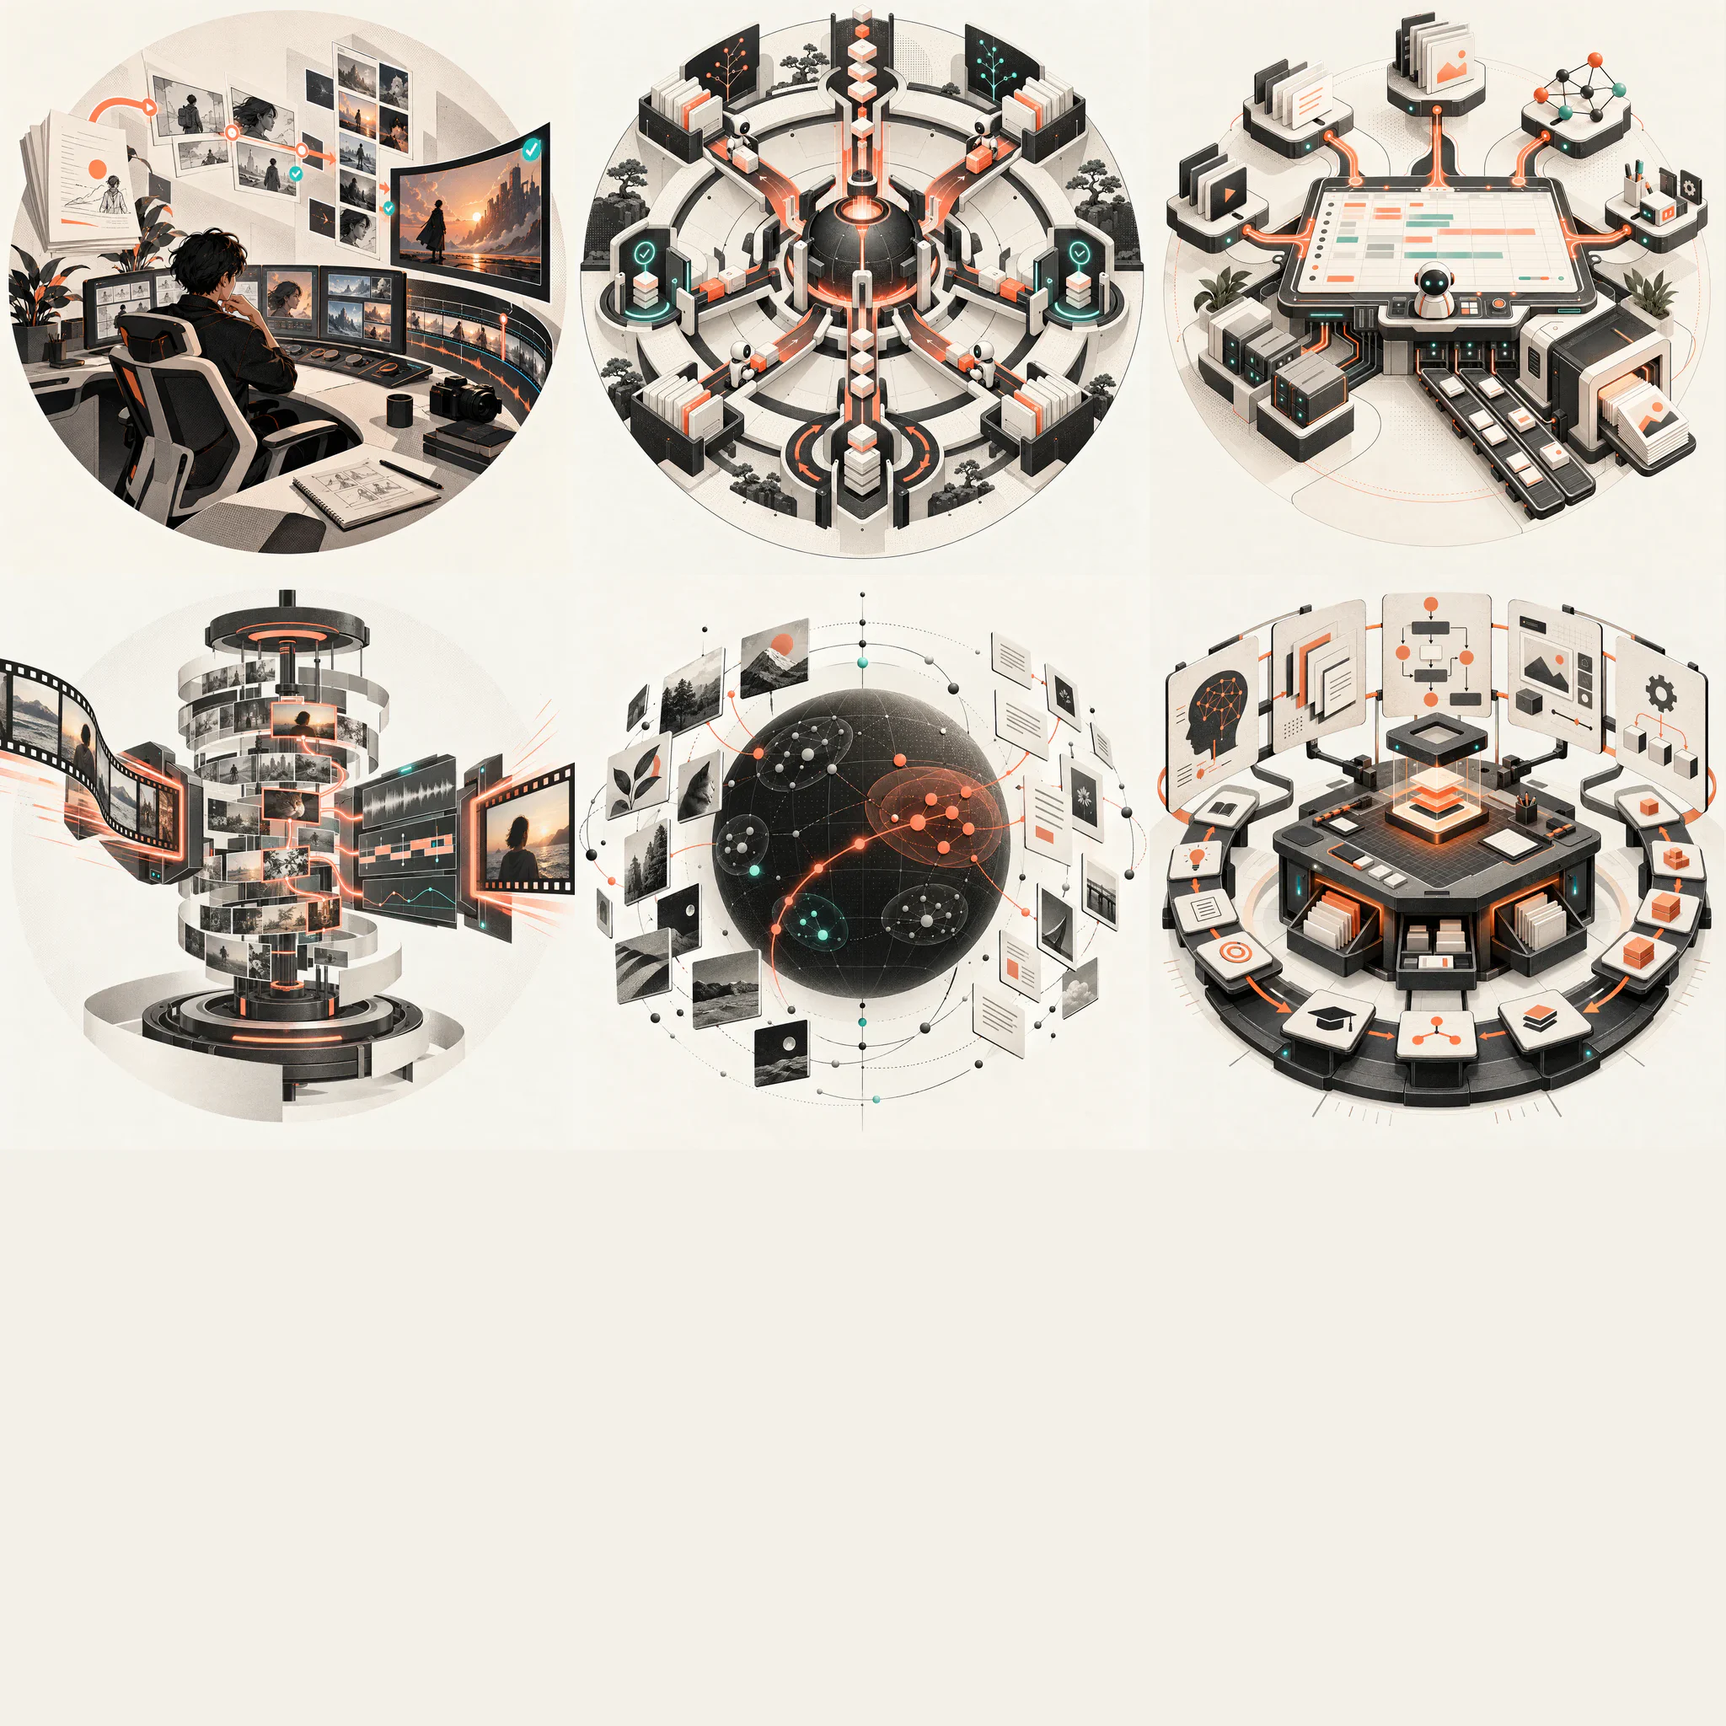
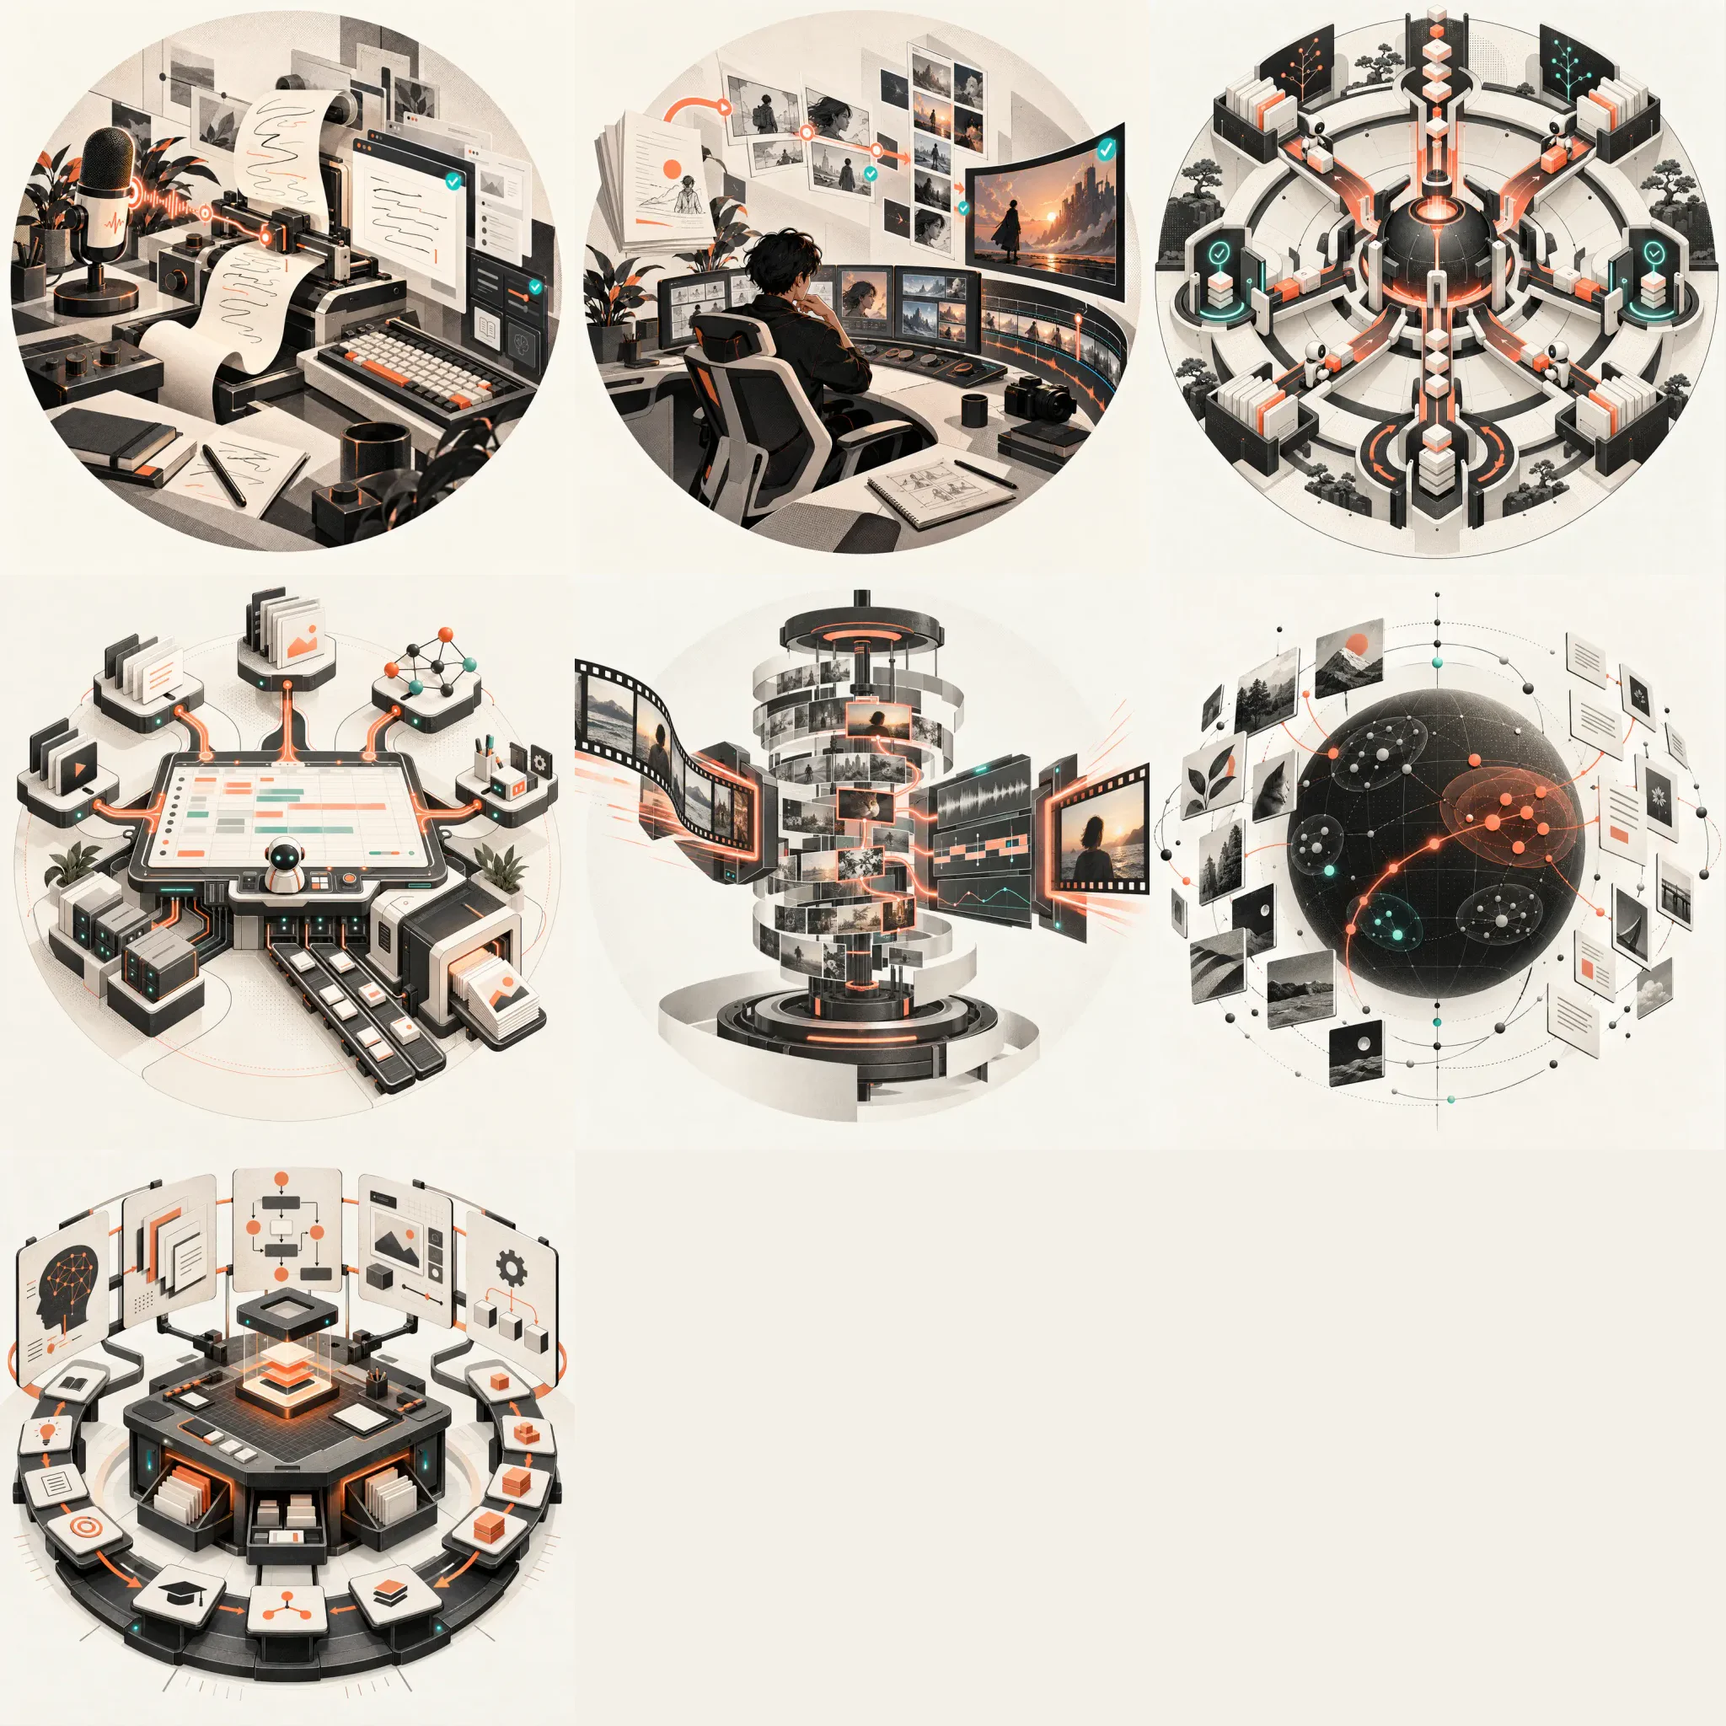
feat: feature Sayweave as the first portfolio project

diff --git a/src/components/SectionProjects.tsx b/src/components/SectionProjects.tsx
@@ -2,14 +2,17 @@ import { useCallback, useEffect, useMemo, useRef, useState } from 'react';
 import { ArrowUpRight, ChevronLeft, ChevronRight, CircleDashed } from 'lucide-react';
 
 import InfiniteProjectMenu, { type InfiniteMenuItem } from './projects/InfiniteProjectMenu';
-import { projectAssets, useProjectAssetsStarted } from './projects/projectAssets';
+import { projectAssets, prepareProjectExperience, useProjectAssetsStarted } from './projects/projectAssets';
 import { particleSeeds } from './projects/particleField';
+import projectManifest from '../assets/projects/project-manifest.json';
 
 const staticParticles = particleSeeds(60);
 
 const {
+  firstProjectPreview,
   atlas: atlasUrl,
   covers: {
+    sayweave: sayweaveCover,
     aigcCourse: courseCover,
     eclHarness: eclCover,
     moonai: moonaiCover,
@@ -66,7 +69,20 @@ export default function SectionProjects() {
   const reducedMotion = useMediaQuery('(prefers-reduced-motion: reduce)');
 
   const projects = useMemo<ProjectItem[]>(
-    () => [
+    () => ([
+      {
+        id: 'sayweave',
+        title: 'Sayweave 随言',
+        titleLines: ['Sayweave', '随言'],
+        position: 'Windows 实时语音输入与口语整理工具',
+        description: '把口述实时写入当前应用，衔接语音与键盘编辑，结合口语整理、专有词典和表达偏好，让说出的想法成为清晰、自然的文字。',
+        tags: ['Tauri 2', 'React + TS', 'Rust', 'ASR', 'SQLite'],
+        image: sayweaveCover,
+        coverAlt: '语音波形转化为文字、应用窗口与词典模块组成的概念封面',
+        status: 'live',
+        primaryLink: { label: 'View live project', href: 'https://sayweave.top/', external: true },
+        secondaryLinks: [{ label: 'GitHub', href: 'https://github.com/qinghui316/Sayweave', external: true }],
+      },
       {
         id: 'moonai',
         title: 'MoonAI 短剧 Agent 工作台',
@@ -155,20 +171,25 @@ export default function SectionProjects() {
         status: 'case-study-building',
         secondaryLinks: [],
       },
-    ],
+    ] satisfies ProjectItem[]).sort((a, b) => projectManifest.findIndex(item => item.id === a.id) - projectManifest.findIndex(item => item.id === b.id)),
     [moonaiFilmDemoVideoUrl, moonaiPromoVideoUrl],
   );
 
   useEffect(() => {
-    if (!assetsStarted) return;
     const canvas = document.createElement('canvas');
     const gl = canvas.getContext('webgl2');
     setWebglAvailable(Boolean(gl));
     gl?.getExtension('WEBGL_lose_context')?.loseContext();
-    const observer = new IntersectionObserver(([entry]) => { if (entry.isIntersecting) { setNear(true); observer.disconnect(); } }, { rootMargin: '100% 0px' });
+    const observer = new IntersectionObserver(([entry]) => {
+      if (entry.isIntersecting) {
+        setNear(true);
+        void prepareProjectExperience().catch(() => undefined);
+        observer.disconnect();
+      }
+    }, { rootMargin: '100% 0px' });
     if (stageRef.current) observer.observe(stageRef.current);
     return () => observer.disconnect();
-  }, [assetsStarted]);
+  }, []);
 
   const activeProject = projects[activeIndex];
   const useInteractiveMenu = desktopPointer && !reducedMotion && webglAvailable && assetsStarted && near;
@@ -209,20 +230,22 @@ export default function SectionProjects() {
             key={`${project.id}-${offset}`}
             type="button"
             className={`projects-static-lens is-edge is-edge-${position + 1}`}
+            style={project.id === projectManifest[0].id ? { backgroundImage: `url(${firstProjectPreview})`, backgroundSize: 'cover' } : undefined}
             onClick={() => setActiveIndex(index)}
             aria-label={`选择项目：${project.title}`}
           >
-            <img src={assetsStarted ? project.image : undefined} alt="" />
+            <img src={assetsStarted ? project.image : undefined} alt="" fetchPriority="low" onLoad={event => event.currentTarget.parentElement?.setAttribute('data-cover-ready', 'true')} />
           </button>
         );
       })}
       <button
         type="button"
         className="projects-static-lens is-center"
+        style={activeProject.id === projectManifest[0].id ? { backgroundImage: `url(${firstProjectPreview})`, backgroundSize: 'cover' } : undefined}
         onClick={() => openProject(activeIndex)}
         aria-label={activeProject.primaryLink ? `打开项目：${activeProject.title}` : activeProject.title}
       >
-        <img src={assetsStarted ? activeProject.image : undefined} alt={activeProject.coverAlt} />
+        <img src={assetsStarted ? activeProject.image : undefined} alt={activeProject.coverAlt} fetchPriority="high" />
       </button>
     </div>
   );
@@ -248,7 +271,7 @@ export default function SectionProjects() {
           {useInteractiveMenu ? (
             <>
               {staticStage(menuReady)}
-              <div className={`projects-webgl ${menuReady ? 'is-ready' : ''}`}>
+              <div className={`projects-webgl ${menuReady ? 'is-ready' : ''}`} inert={!menuReady}>
                 <InfiniteProjectMenu
                   items={projects}
                   atlasUrl={atlasUrl}
@@ -274,6 +297,7 @@ export default function SectionProjects() {
                   type="button"
                   role="listitem"
                   className={index === activeIndex ? 'is-active' : ''}
+                  style={project.id === projectManifest[0].id ? { backgroundImage: `url(${firstProjectPreview})`, backgroundSize: 'cover' } : undefined}
                   onClick={() => setActiveIndex(index)}
                   aria-label={`选择项目：${project.title}`}
                   aria-pressed={index === activeIndex}
@@ -350,7 +374,7 @@ export default function SectionProjects() {
             <ChevronLeft aria-hidden="true" />
           </button>
           <span className="project-progress-edge">01</span>
-          <div className="project-progress-track">
+          <div className="project-progress-track" style={{ gridTemplateColumns: `repeat(${projects.length}, 1fr)` }}>
             <i aria-hidden="true" />
             {projects.map((project, index) => (
               <button
@@ -365,7 +389,7 @@ export default function SectionProjects() {
               </button>
             ))}
           </div>
-          <span className="project-progress-edge">06</span>
+          <span className="project-progress-edge">{String(projects.length).padStart(2, '0')}</span>
           <button type="button" onClick={() => moveSelection(1)} aria-label="下一个项目" title="下一个项目">
             <ChevronRight aria-hidden="true" />
           </button>

diff --git a/scripts/project-assets.test.ts b/scripts/project-assets.test.ts
@@ -1,5 +1,5 @@
 import assert from 'node:assert/strict';
-import { stat } from 'node:fs/promises';
+import { stat, readFile } from 'node:fs/promises';
 import path from 'node:path';
 import test from 'node:test';
 
@@ -7,14 +7,8 @@ import sharp from 'sharp';
 
 const root = path.resolve(import.meta.dirname, '..');
 const assetDir = path.join(root, 'src', 'assets', 'projects');
-const covers = [
-  'moonai.webp',
-  'ecl-harness.webp',
-  'yaoxiaohui.webp',
-  'video-fast-clip.webp',
-  'qwen-embedding.webp',
-  'aigc-course.webp',
-];
+const manifest = JSON.parse(await readFile(path.join(assetDir, 'project-manifest.json'), 'utf8')) as { id: string; coverFile: string }[];
+const covers = manifest.map(item => item.coverFile);
 
 test('project covers are square and lightweight', async () => {
   let totalBytes = 0;
@@ -26,7 +20,7 @@ test('project covers are square and lightweight', async () => {
     assert.ok(info.size < 260_000, `${cover} should stay below 260 KB`);
     totalBytes += info.size;
   }
-  assert.ok(totalBytes < 1_200_000, 'fallback covers should stay below 1.2 MB');
+  assert.ok(totalBytes < 1_500_000, 'fallback covers should stay below 1.5 MB');
 });
 
 test('project atlas has the expected dimensions and budget', async () => {
@@ -34,5 +28,27 @@ test('project atlas has the expected dimensions and budget', async () => {
   const [metadata, info] = await Promise.all([sharp(file).metadata(), stat(file)]);
   assert.equal(metadata.width, 2048);
   assert.equal(metadata.height, 2048);
-  assert.ok(info.size < 700_000, 'project atlas should stay below 700 KB');
+  assert.ok(info.size < 800_000, 'project atlas should stay below 800 KB');
+});
+
+test('first-project preview is small enough for Vite inline assets', async () => {
+  const info = await stat(path.join(assetDir, 'first-project-preview.webp'));
+  assert.ok(info.size < 4096, 'preview must not add a standalone request');
+});
+
+test('seven atlas cells match the ordered covers', async () => {
+  assert.equal(manifest.length, 7);
+  assert.equal(manifest[0].id, 'sayweave');
+  assert.equal(new Set(manifest.map(item => item.id)).size, manifest.length);
+  const references = await Promise.all(covers.map(cover => sharp(path.join(assetDir, cover)).resize(32, 32).removeAlpha().raw().toBuffer()));
+  const scores: number[] = [];
+  for (let i = 0; i < manifest.length; i++) {
+    const cell = await sharp(path.join(assetDir, 'project-atlas.webp'))
+      .extract({ left: i % 3 * 682, top: Math.floor(i / 3) * 682, width: 682, height: 682 }).resize(32, 32).removeAlpha().raw().toBuffer();
+    const errors = references.map(ref => cell.reduce((sum, value, j) => sum + Math.abs(value - ref[j]), 0) / cell.length);
+    assert.equal(errors.indexOf(Math.min(...errors)), i, `${manifest[i].id} should occupy cell ${i}`);
+    assert.ok(errors[i] < 12, `${manifest[i].id} should retain its cover colors`);
+    scores.push(errors[i]);
+  }
+  console.log('Atlas cell mean errors:', scores.map(score => score.toFixed(2)).join(', '));
 });

diff --git a/src/components/projects/projectAssets.ts b/src/components/projects/projectAssets.ts
@@ -5,11 +5,16 @@ import atlasUrl from '../../assets/projects/project-atlas.webp';
 import embeddingCover from '../../assets/projects/qwen-embedding.webp';
 import videoCover from '../../assets/projects/video-fast-clip.webp';
 import yaoxiaohuiCover from '../../assets/projects/yaoxiaohui.webp';
+import sayweaveCover from '../../assets/projects/sayweave.webp';
+import projectManifest from '../../assets/projects/project-manifest.json';
+import firstProjectPreview from '../../assets/projects/first-project-preview.webp';
 import { useSyncExternalStore } from 'react';
 
 export const projectAssets = {
+  firstProjectPreview,
   atlas: atlasUrl,
   covers: {
+    sayweave: sayweaveCover,
     moonai: moonaiCover,
     eclHarness: eclCover,
     yaoxiaohui: yaoxiaohuiCover,
@@ -25,10 +30,11 @@ const listeners = new Set<() => void>();
 const subscribe = (listener: () => void) => { listeners.add(listener); return () => { listeners.delete(listener); }; };
 export const useProjectAssetsStarted = () => useSyncExternalStore(subscribe, () => started, () => false);
 
-const decodeImage = (src: string) =>
+const decodeImage = (src: string, priority: 'high' | 'low' = 'low') =>
   new Promise<void>((resolve, reject) => {
     const image = new Image();
     image.decoding = 'async';
+    image.fetchPriority = priority;
     image.onload = () => { void image.decode().then(resolve, reject); };
     image.onerror = () => reject(new Error(`Unable to preload project image: ${src}`));
     image.src = src;
@@ -37,10 +43,15 @@ const decodeImage = (src: string) =>
 export const prepareProjectExperience = () => {
   if (preloadPromise) return preloadPromise;
   started = true; listeners.forEach(listener => listener());
-  preloadPromise = Promise.all([
-    import('./InfiniteProjectMenu'),
-    ...Object.values(projectAssets.covers).map(decodeImage),
-    decodeImage(projectAssets.atlas),
-  ]).then(() => undefined);
+  const menu = import('./InfiniteProjectMenu');
+  const firstKey = projectManifest[0].coverKey as keyof typeof projectAssets.covers;
+  preloadPromise = decodeImage(projectAssets.covers[firstKey], 'high')
+    .catch(() => undefined)
+    .then(() => Promise.all([
+      menu,
+      ...projectManifest.slice(1).map(({ coverKey }) => decodeImage(projectAssets.covers[coverKey as keyof typeof projectAssets.covers])),
+      decodeImage(projectAssets.atlas),
+    ]))
+    .then(() => undefined);
   return preloadPromise;
 };

diff --git a/src/index.css b/src/index.css
@@ -1501,6 +1501,10 @@
   transition: opacity 180ms ease;
 }
 
+.projects-webgl:not(.is-ready),
+.projects-webgl:not(.is-ready) canvas { pointer-events: none; }
+.projects-static-lens.is-edge:not([data-cover-ready='true']) { opacity: 0; pointer-events: none; }
+
 .projects-static-stage.is-hidden { opacity: 0; pointer-events: none; }
 
 .projects-static-lens,
@@ -1613,6 +1617,17 @@
   inset: -48px -44px;
   background: radial-gradient(ellipse at 55% 50%, #10110f 0 52%, rgba(16,17,15,.9) 68%, transparent 86%);
   pointer-events: none;
+}
+
+@media (min-width: 900px) {
+  .project-title-panel::before {
+    content: "";
+    position: absolute;
+    z-index: -1;
+    inset: -48px -44px;
+    background: radial-gradient(ellipse at 38% 50%, #10110f 0 48%, rgba(16,17,15,.9) 65%, transparent 86%);
+    pointer-events: none;
+  }
 }
 
 .project-stage-copy { animation: project-stage-copy-enter 260ms ease-out both; }

diff --git a/scripts/project-orbit.test.ts b/scripts/project-orbit.test.ts
@@ -15,6 +15,16 @@ test('project indices wrap in a stable data order', () => {
   assert.equal(wrapIndex(8, 6), 2);
 });
 
+test('seven projects traverse both wrap boundaries without skipped slots', () => {
+  const forward = Array.from({ length: 9 }, (_, i) => wrapIndex(resolveActiveSlot(i + .1, 0), 7));
+  assert.deepEqual(forward, [0, 1, 2, 3, 4, 5, 6, 0, 1]);
+  assert.equal(wrapIndex(-1, 7), 6);
+  assert.equal(getOrbitTargetForIndex(.1, 6, 7), -1);
+  assert.equal(getOrbitTargetForIndex(6.1, 0, 7), 7);
+  assert.equal(getNormalizedOrbitProgress(6, 7), 1);
+  assert.equal(getNormalizedOrbitProgress(7, 7), 0);
+});
+
 test('explicit selection uses the shortest continuous orbit target', () => {
   assert.equal(getOrbitTargetForIndex(0.2, 5, 6), -1);
   assert.equal(getOrbitTargetForIndex(5.8, 0, 6), 6);

diff --git a/assets-source/projects/SAYWEAVE-PROMPT.md b/assets-source/projects/SAYWEAVE-PROMPT.md
@@ -1,0 +1,9 @@
+# Sayweave cover provenance
+
+Generated with the built-in ImageGen tool. The reference is the existing MoonAI cover, used only for series style, texture and palette.
+
+Requested square 1536px. The tool returned 1254x1254 pixels; the saved design-source PNG was normalized to 1536x1536 before export. Runtime cover is 1024x1024. No readable product text is included in the artwork.
+
+## Prompt
+
+Generate a brand new square 1536x1536 portfolio concept cover for Sayweave, a Windows live voice-to-text app. The supplied image is ONLY a reference for the existing portfolio series' print texture, restrained palette and detailed illustrated 3D editorial rendering; do not copy its filmmaker or film imagery. New scene: a sculptural voice-to-writing desktop creation station in a gently elevated three-quarter view. A black titanium and warm-white ceramic microphone on the left sends a short coral-orange waveform into a central precision writing/caret mechanism and curling warm-white paper ribbon with abstract non-readable strokes. On the right, layered thin application window panels and a keyboard express writing across apps; small dictionary tabs and expression-preference modules are subordinate details. Coherent tangible desk-like machine, clear visual route from microphone to written output. All important objects centered inside the central 70% circle for circular glass-lens cropping; peripheral technical hairlines stay restrained. Warm white paper background, black graphite structures, coral-orange path and extremely sparse teal verification accents. Real thickness, local subtle reflections, printed grain and fine halftone texture. No readable letters, no product title, no logos, no captions, no interface small text, no watermark. Sophisticated consistent portfolio series artwork, not a website screenshot. Square composition, opaque background.
